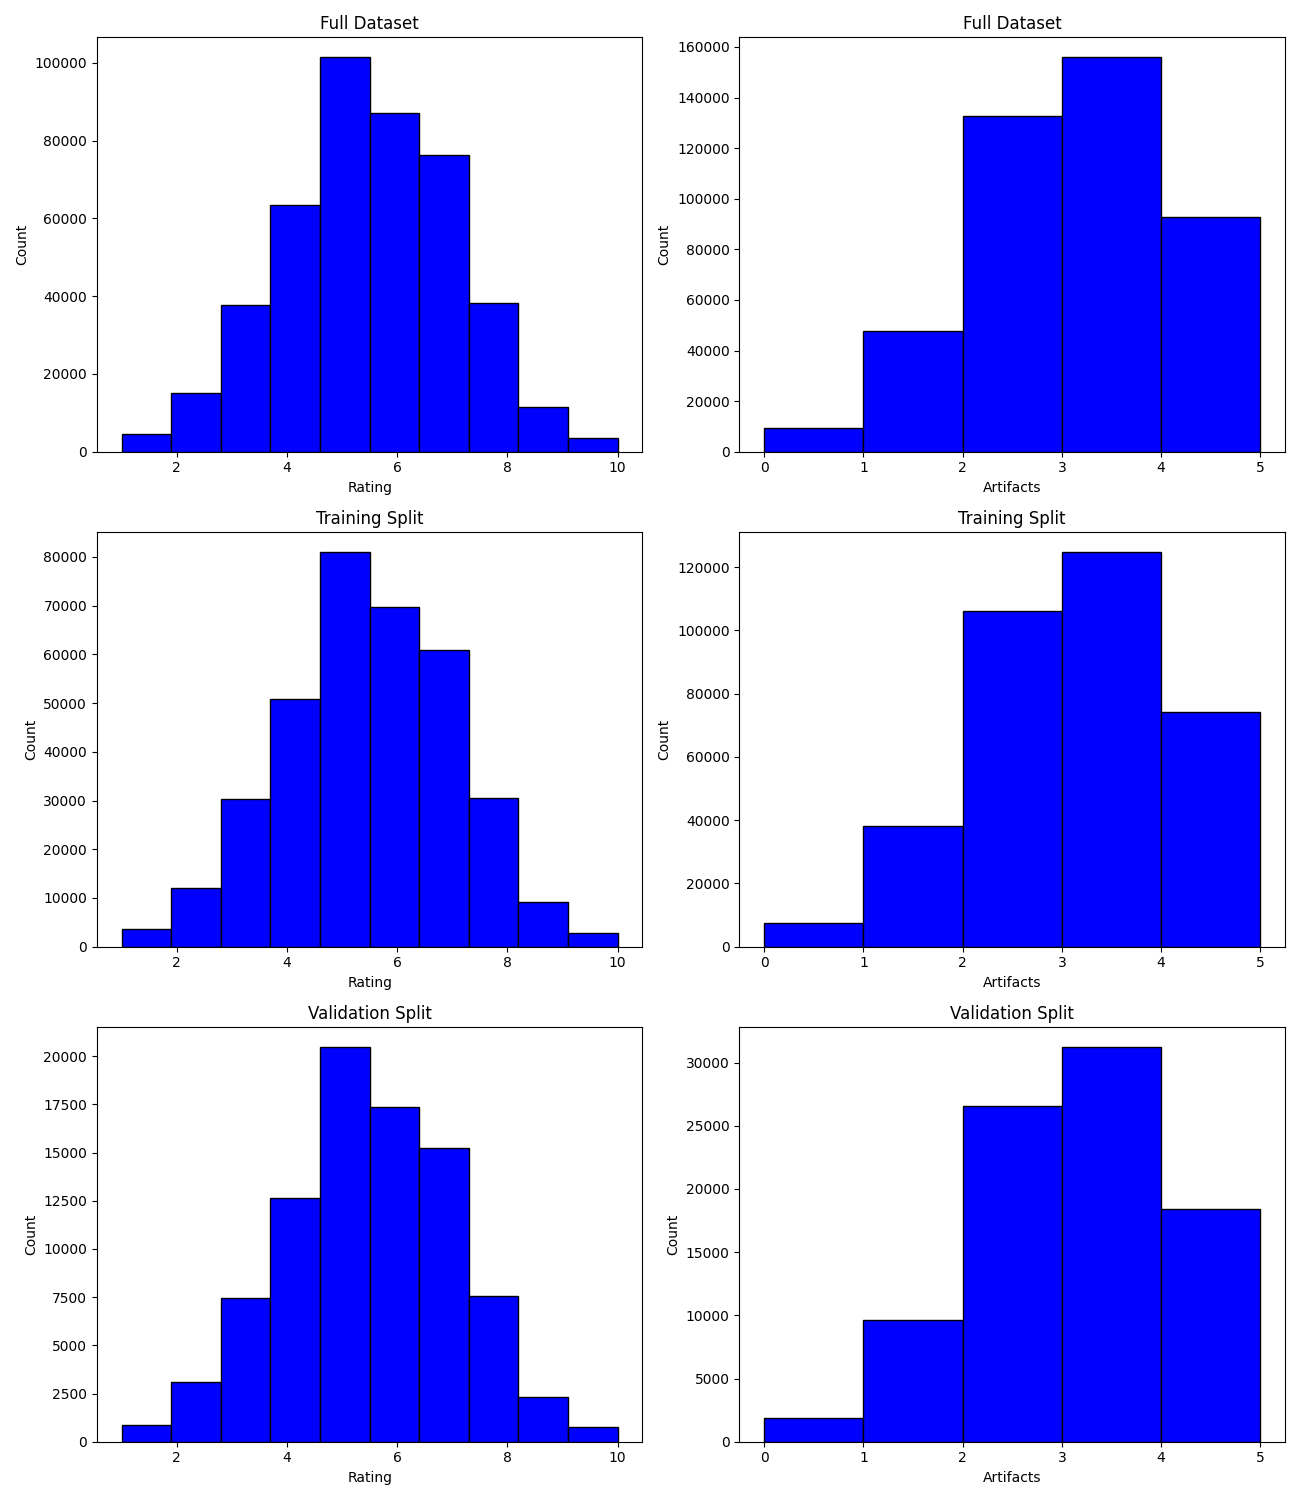
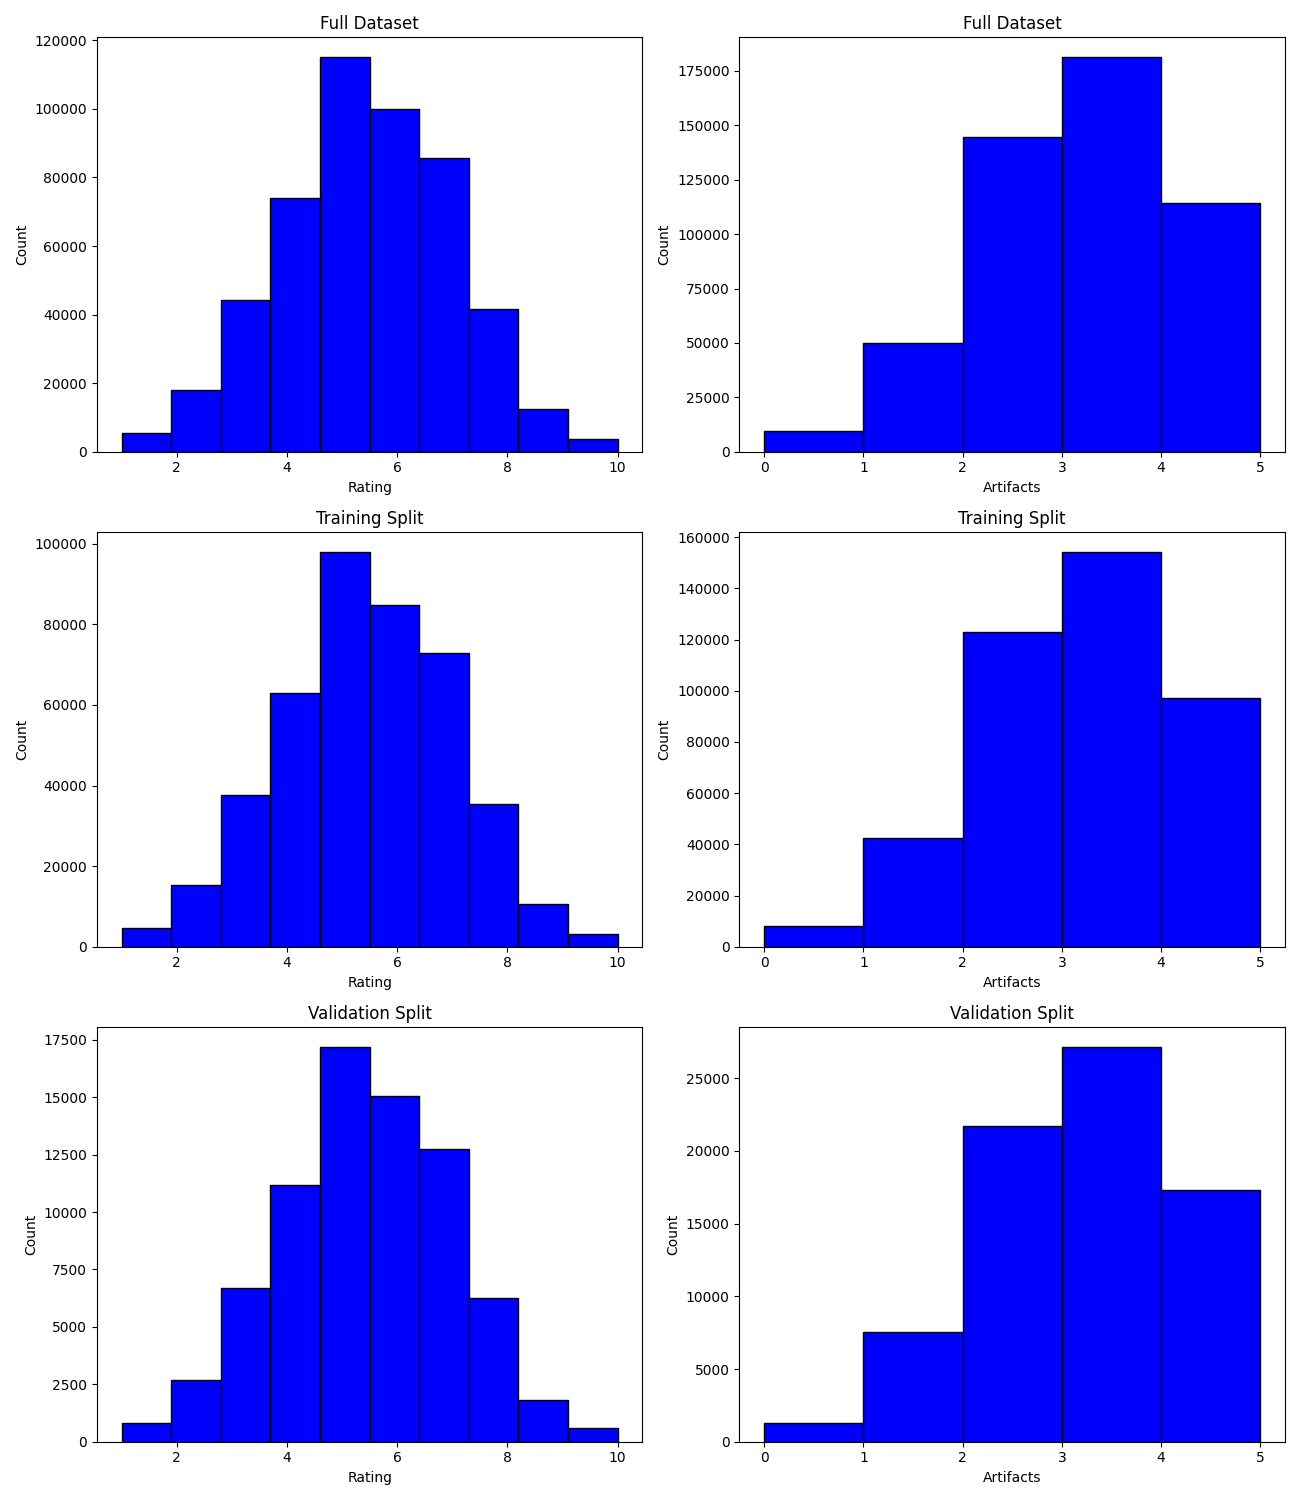
update dataset with new data

diff --git a/dataset-process/clip_encode_dataset.py b/dataset-process/clip_encode_dataset.py
@@ -3,68 +3,107 @@ from PIL import Image
 import torch
 from tqdm import tqdm
 import os
+from base_model_classes.openclip import OpenClip
+from base_model_classes.transformers_clip import TransformersClip
+from torch.utils.data import Dataset, DataLoader
 
-from transformers import CLIPModel, CLIPProcessor
+os.environ['CUBLAS_WORKSPACE_CONFIG'] = ":4096:8" # avoid annoying cublas warning
 
 configs = [
     # {
     #     "MODEL": "laion/CLIP-ViT-bigG-14-laion2B-39B-b160k",
-    #     "FILE_NAME": "openclip_vit_bigg_14"
+    #     "FILE_NAME": "openclip_vit_bigg_14",
+    #     "TYPE": "transformers"
+    # },
+    # {
+    #     "MODEL": "laion/CLIP-ViT-H-14-laion2B-s32B-b79K",
+    #     "FILE_NAME": "openclip_vit_h_14",
+    #     "TYPE": "transformers"
+    # },
+    # {
+    #     "MODEL": "laion/CLIP-ViT-L-14-laion2B-s32B-b82K",
+    #     "FILE_NAME": "openclip_vit_l_14",
+    #     "TYPE": "transformers"
     # },
     {
-        "MODEL": "laion/CLIP-ViT-H-14-laion2B-s32B-b79K",
-        "FILE_NAME": "openclip_vit_h_14"
-    },
-    {
-        "MODEL": "laion/CLIP-ViT-L-14-laion2B-s32B-b82K",
-        "FILE_NAME": "openclip_vit_l_14"
+        "MODEL": "hf-hub:apple/DFN5B-CLIP-ViT-H-14-384",
+        "FILE_NAME": "dfn5b_vit_h_14",
+        "TYPE": "openclip"
     }
 ]
 
-BATCH_SIZE = 400
+BATCH_SIZE = 300
+DATASET_PATH = "W:/dataset/"
+SAVE_EVERY_N_BATCHES = 20
 
-df = pd.read_parquet('parquets/prepared_hord_diffusion_dataset.parquet')
+class CustomDataset(Dataset):
+    def __init__(self, image_paths, transform=None):
+        self.image_paths = image_paths
+        self.transform = transform
 
-for config in configs:
-    MODEL = config["MODEL"]
-    FILE_NAME = config["FILE_NAME"]
-    embedding_file_path = f"parquets/{FILE_NAME}.parquet"
-    if os.path.exists(embedding_file_path):
-        result_df = pd.read_parquet(embedding_file_path)
-    else:
-        result_df = pd.DataFrame(columns=["image_name", "pooled_output", "projected_embedding"])
+    def __len__(self):
+        return len(self.image_paths)
 
-    missing_image_names = df[~df["image_name"].isin(result_df["image_name"])]["image_name"].unique()
+    def __getitem__(self, idx):
+        image_path = self.image_paths[idx]
+        image = Image.open(os.path.join(DATASET_PATH, image_path))
+        if self.transform:
+            image = self.transform(image).squeeze(0)
+        return image_path, image
 
-    print(f"Missing {len(missing_image_names)} embeddings...")
+def main():
+    df = pd.read_parquet('parquets/prepared_hord_diffusion_dataset.parquet')
 
-    model = CLIPModel.from_pretrained(MODEL)
-    vision_model = model.vision_model
-    visual_projection = model.visual_projection
-    vision_model.to("cuda")
-    visual_projection.to("cuda")
-    del model
-    processor = CLIPProcessor.from_pretrained(MODEL)
+    for config in configs:
+        MODEL = config["MODEL"]
+        FILE_NAME = config["FILE_NAME"]
+        embedding_file_path = f"parquets/{FILE_NAME}.parquet"
+        if os.path.exists(embedding_file_path):
+            result_df = pd.read_parquet(embedding_file_path)
+        else:
+            result_df = pd.DataFrame(columns=["image_name", "pooled_output", "projected_embedding"])
 
-    for pos in tqdm(range(0, len(missing_image_names), BATCH_SIZE)):
-        name_batch = missing_image_names[pos:pos+BATCH_SIZE]
-        image_paths = [f"dataset/{id}" for id in name_batch]
-        pil_images = [Image.open(image_path) for image_path in image_paths]
-        inputs = processor(images=pil_images, return_tensors="pt").to("cuda")
-        with torch.no_grad():
-            vision_output = vision_model(**inputs)
-            pooled_output = vision_output.pooler_output
-            projected_embedding = visual_projection(pooled_output)
-            result_df = pd.concat([result_df, pd.DataFrame({
-                "image_name": name_batch, 
-                "pooled_output": list(pooled_output.cpu().detach().numpy()),
-                "projected_embedding": list(projected_embedding.cpu().detach().numpy()),
-            })], ignore_index=True)
-        if (pos / BATCH_SIZE) % 10 == 0:
-            result_df.to_parquet(embedding_file_path)        
+        missing_image_names = df[~df["image_name"].isin(result_df["image_name"])]["image_name"].unique()
 
-    result_df.to_parquet(embedding_file_path)
+        if len(missing_image_names) == 0:
+            print(f"All embeddings already computed for ${MODEL}")
+            continue
 
+        print(f"Missing {len(missing_image_names)} embeddings...")
+
+        if config["TYPE"] == "transformers":
+            model = TransformersClip(MODEL)
+        elif config["TYPE"] == "openclip":
+            model = OpenClip(MODEL)
+        else:
+            raise Exception("Unknown model type")
+
+        model = model.to("cuda")
+
+        dataset = CustomDataset(missing_image_names, transform=model.process_images)
+        loader = DataLoader(dataset, batch_size=BATCH_SIZE, num_workers=3, persistent_workers=True)
+
+        batch_counter = 0
+        for batch in tqdm(loader):
+            batch_counter += 1
+            name_batch, image_batch = batch
+            image_batch = image_batch.to("cuda")
+            with torch.no_grad(), torch.cuda.amp.autocast():
+                pooled_output, projected_embedding = model(image_batch)
+                if torch.all(pooled_output == 0) or torch.all(projected_embedding == 0):
+                    raise ValueError("The output tensor is all zeros.")
+                result_df = pd.concat([result_df, pd.DataFrame({
+                    "image_name": name_batch, 
+                    "pooled_output": list(pooled_output.cpu().detach().numpy().astype('float32')),
+                    "projected_embedding": list(projected_embedding.cpu().detach().numpy().astype('float32')),
+                })], ignore_index=True)
+            if batch_counter % SAVE_EVERY_N_BATCHES == 0:
+                result_df.to_parquet(embedding_file_path)        
+
+        result_df.to_parquet(embedding_file_path)
+
+if __name__ == "__main__":
+    main()
 
 
 

diff --git a/dataset-process/dataset_image_extract.py b/dataset-process/dataset_image_extract.py
@@ -6,11 +6,13 @@ from PIL import Image
 import utils.download as download
 import requests
 from tqdm import tqdm
+from concurrent.futures import ThreadPoolExecutor, as_completed
 
 VERIFY_EXISTING_IMAGES = False # slow
 DOWNLOAD_FROM_CDN = True
 
 DATASET_PATH = "W:/diffusiondb/"
+DATASET_TARGET = "W:/dataset/"
 CDN_URL = "https://s3cdn.stability.ai/diffusion-db/"
 
 df = pd.read_parquet('parquets/prepared_hord_diffusion_dataset.parquet')
@@ -35,41 +37,58 @@ def download_image(url, dataset_img_path):
         print(f"Failed to download image, { url } Status code: {response.status_code}")
 
 if DOWNLOAD_FROM_CDN:
+    missing_images = []
+    print("Verifying images...")
     for img_name in tqdm(df["image_name"]):
-            dataset_img_path = os.path.join("dataset", img_name)
+            dataset_img_path = os.path.join(DATASET_TARGET, img_name)
             if not os.path.exists(dataset_img_path):
-                download_url = f'{CDN_URL}{img_name}'
-                download_image(download_url, dataset_img_path)
-                
+                missing_images.append(img_name)
             elif VERIFY_EXISTING_IMAGES:
                 try:
                     Image.open(dataset_img_path).verify()
                 except Exception:
-                    download_image(download_url, dataset_img_path)
-else:
-    for index, part_group in df.groupby("part_id"):
-        print(f"Parsing part {index}, {len(part_group)} images...")
-        zip_path = os.path.join(DATASET_PATH, f"part-{str(index).zfill(6)}.zip")
-        if not os.path.exists(zip_path):
-            print(f"missing part {index}, downloading...")
-            download_zip(index)
-        else:
-            try:
-                with zipfile.ZipFile(zip_path) as z:
-                    if len(z.filelist) != 1001:
-                        print(f"invalid filecount in part {index}, found {len(z.filelist)}, will download...")
-                        download_zip(index)
-            except zipfile.BadZipFile:
-                print(f"invalid zip file in part {index}, will download...")
-                download_zip(index)
+                    print(f"Image {img_name} is corrupted, will download...")
+                    missing_images.append(img_name)
+    print(f"Missing {len(missing_images)} images, downloading...")
 
-        for img_name in part_group["image_name"]:
-            dataset_img_path = os.path.join("dataset", img_name)
-            if not os.path.exists(dataset_img_path):
-                fetch_file_from_zip(zip_path, img_name, dataset_img_path)
-            elif VERIFY_EXISTING_IMAGES:
-                try:
-                    Image.open(dataset_img_path).verify()
-                except Exception:
-                    fetch_file_from_zip(zip_path, img_name, dataset_img_path)
+    def download_and_save_image(img_name):
+        dataset_img_path = os.path.join(DATASET_TARGET, img_name)
+        download_url = f'{CDN_URL}{img_name}'
+        download_image(download_url, dataset_img_path)
+
+    with ThreadPoolExecutor(max_workers=5) as executor:
+        future_to_img_name = {executor.submit(download_and_save_image, img_name): img_name for img_name in missing_images}
+        for future in tqdm(as_completed(future_to_img_name), total=len(missing_images), desc="Downloading images"):
+            img_name = future_to_img_name[future]
+            try:
+                data = future.result()
+            except Exception as exc:
+                print(f'{img_name} generated an exception: {exc}')
+
+# else:
+#     for index, part_group in df.groupby("part_id"):
+#         print(f"Parsing part {index}, {len(part_group)} images...")
+#         zip_path = os.path.join(DATASET_PATH, f"part-{str(index).zfill(6)}.zip")
+#         if not os.path.exists(zip_path):
+#             print(f"missing part {index}, downloading...")
+#             download_zip(index)
+#         else:
+#             try:
+#                 with zipfile.ZipFile(zip_path) as z:
+#                     if len(z.filelist) != 1001:
+#                         print(f"invalid filecount in part {index}, found {len(z.filelist)}, will download...")
+#                         download_zip(index)
+#             except zipfile.BadZipFile:
+#                 print(f"invalid zip file in part {index}, will download...")
+#                 download_zip(index)
+
+#         for img_name in part_group["image_name"]:
+#             dataset_img_path = os.path.join(DATASET_TARGET, img_name)
+#             if not os.path.exists(dataset_img_path):
+#                 fetch_file_from_zip(zip_path, img_name, dataset_img_path)
+#             elif VERIFY_EXISTING_IMAGES:
+#                 try:
+#                     Image.open(dataset_img_path).verify()
+#                 except Exception:
+#                     fetch_file_from_zip(zip_path, img_name, dataset_img_path)
                                 

diff --git a/base_model_classes/openclip.py b/base_model_classes/openclip.py
@@ -1,0 +1,74 @@
+
+import torch
+from open_clip import create_model_from_pretrained, get_tokenizer 
+
+class OpenClip(torch.nn.Module):
+    def __init__(self, model_name_or_path, tokenizer_name=None):
+        super().__init__()
+        self.base, preprocess = create_model_from_pretrained(model_name_or_path)
+        self.process_images = ImageProcessor(preprocess).process_images
+        self.projection = self.base.visual.proj
+        self.base.visual.proj = None
+        if(tokenizer_name):
+            self.process_text = TextProcessor(tokenizer_name, self.base.context_length).process_text
+        else:
+            del self.base.transformer # delete text encoder
+
+    def forward(self, inputs):
+        pooled_output = self.base.visual(inputs)
+        projected_embedding = pooled_output @ self.projection
+        return pooled_output, projected_embedding
+
+    def encode_text(self, texts):
+        return self.base.encode_text(texts)        
+
+class ImageProcessor:
+    def __init__(self, preprocess):
+        self.preprocess = preprocess
+
+    def process_images(self, pil_images):
+        pil_images = pil_images if isinstance(pil_images, list) else [pil_images]
+        processed = [self.preprocess(image) for image in pil_images]
+        return torch.stack(processed)
+
+class TextProcessor:
+    def __init__(self, tokenizer_name, context_length):
+        self.tokenizer = get_tokenizer(tokenizer_name)
+        self.context_length = context_length
+
+    def process_text(self, text):
+        text = text if isinstance(text, list) else [text]
+        return self.tokenizer(text, context_length=self.context_length)
+
+if __name__ == "__main__":
+    from PIL import Image
+    import torch.nn.functional as F
+    labels = ["Person", "Plant"]
+
+    model = OpenClip('hf-hub:apple/DFN5B-CLIP-ViT-H-14-384', 'ViT-H-14')
+    model = model.cuda()    
+    image = model.process_images(Image.open("dudes.png")).cuda()
+    text = model.process_text(labels).cuda()
+    with torch.no_grad(), torch.cuda.amp.autocast():
+        _, v1 = model(image)
+        t1 = model.encode_text(text)
+
+
+    model, preprocess = create_model_from_pretrained('hf-hub:apple/DFN5B-CLIP-ViT-H-14-384')
+    model = model.cuda()
+    tokenizer = get_tokenizer('ViT-H-14')
+
+    image = preprocess(Image.open("dudes.png")).unsqueeze(0).cuda()
+    text = tokenizer(labels, context_length=model.context_length).cuda()
+
+    with torch.no_grad(), torch.cuda.amp.autocast():
+        v2 = model.encode_image(image)
+        t2 = model.encode_text(text)
+
+    # compare our model with the default output
+    assert torch.allclose(v1, v2, atol=1e-4)
+    assert torch.allclose(t1, t2, atol=1e-4)
+
+    probs = F.normalize(v1, dim=-1) @ F.normalize(t1, dim=-1).T
+    zipped_list = list(zip(labels, [round(p.item(), 3) for p in probs[0]]))
+    print("Label probabilities: ", zipped_list)

diff --git a/dataset-process/dataset_parquet_files.py b/dataset-process/dataset_parquet_files.py
@@ -52,7 +52,7 @@ mixed_diffusion_df = mixed_diffusion_df[mixed_diffusion_df["image_nsfw"] != 2.0 
 
 mixed_diffusion_df = mixed_diffusion_df[["image_name", "ratings_count", "rating", "artifacts", "prompt", "part_id", "width", "height"]]
 
-train_split_df, validate_split_df = np.split(mixed_diffusion_df.sample(frac=1, random_state=42), [int(0.8*len(mixed_diffusion_df))])
+train_split_df, validate_split_df = np.split(mixed_diffusion_df.sample(frac=1, random_state=42), [int(0.85*len(mixed_diffusion_df))])
 
 mixed_diffusion_df.to_parquet("parquets/prepared_hord_diffusion_dataset.parquet")
 train_split_df.to_parquet("parquets/train_split.parquet")
